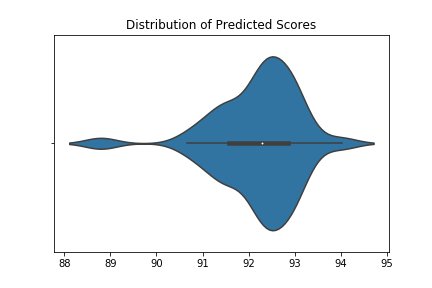
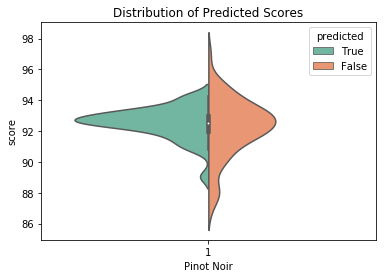
update dist graph

Changed region(s): [[0.0, 0.0288, 0.9637, 0.9784]]

diff --git a/readme.md b/readme.md
@@ -52,15 +52,12 @@ I chose Pinot Noir because of its large sample size and large distribution.
 |---|---|
 |Mean|1.986|
 |Random Forest|1.446|
-|2 Hidden Layer MLP| 1.643|
+|2 Hidden Layer MLP (CV)| 1.643|
 
-<img alt="intro" src="figs/PN-score-dist.png" width='500'>
+
 
 <img alt="intro" src="figs/PN-pred-score-dist.png" width='500'>
 
-###### Random Forest
-
-<img alt="intro" src="figs/rfr-feat-import.png" width='500'>
 
 ###### Neural network
 <img alt="intro" src="figs/ner-arch.png" width='500'>
